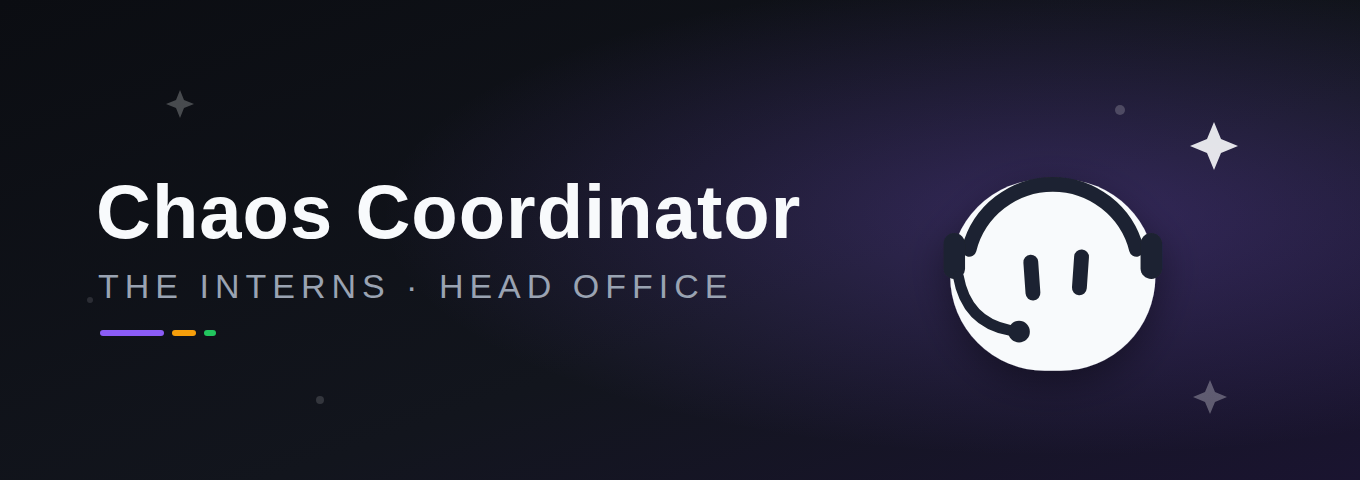
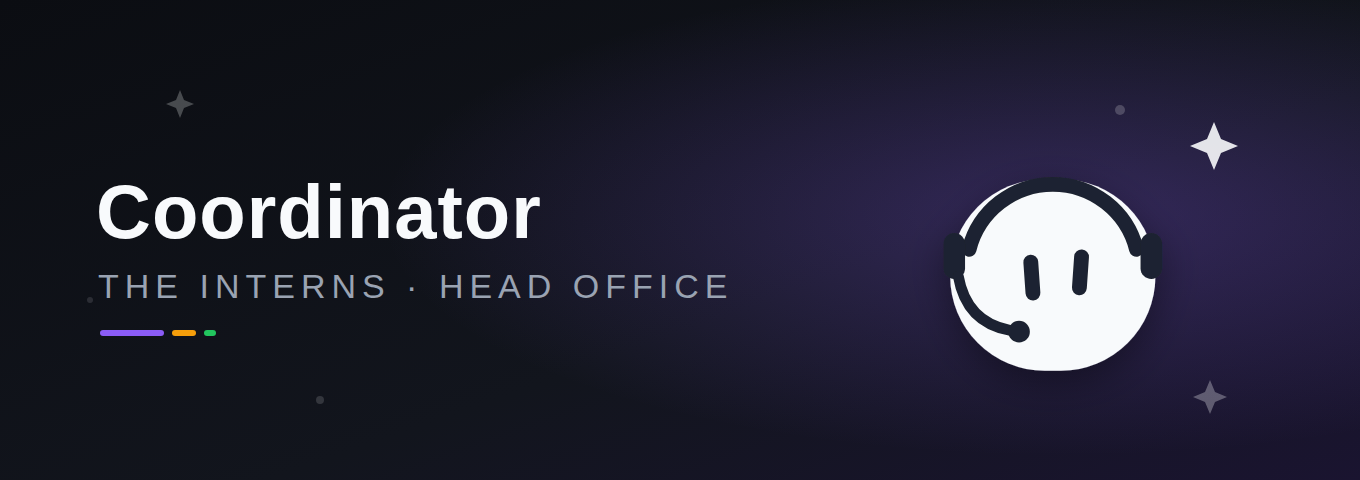
The front desk is "Coordinator", and its name is a setting
coordinator_name in config (default "Coordinator") names the front desk in
prompts, chats, standups, notifications and the app (via GET /owner).

Changed region(s): [[0.0926, 0.375, 0.5868, 0.5]]

diff --git a/orchestrator/src/orchestrator.ts b/orchestrator/src/orchestrator.ts
@@ -12,7 +12,7 @@ import { randomUUID } from "node:crypto";
 import { adviseIdlePriority, type AdvisorVerdict } from "./advisor.js";
 import { localDate } from "./agenda.js";
 import { cronMatches } from "./schedules.js";
-import { ownerName } from "./profile.js";
+import { coordinatorName, ownerName } from "./profile.js";
 import { quickRepliesFence } from "./fences.js";
 import type { Config } from "./config.js";
 import { OVER_BUDGET, type Db } from "./db.js";
@@ -412,7 +412,7 @@ export class Orchestrator {
 
   private displayName(slug: string): string {
     if (slug === "jp") return ownerName();
-    if (slug === "coordinator") return "Chaos Coordinator";
+    if (slug === "coordinator") return coordinatorName();
     return this.registry.get(slug)?.name ?? slug;
   }
 
@@ -593,7 +593,7 @@ export class Orchestrator {
     return this.db
       .listMessages(thread, limit)
       .map((m) => {
-        const who = m.author === "jp" ? ownerName() : m.author === "coordinator" ? "Chaos Coordinator" : this.displayName(m.speaker ?? m.intern);
+        const who = m.author === "jp" ? ownerName() : m.author === "coordinator" ? coordinatorName() : this.displayName(m.speaker ?? m.intern);
         const files = m.attachments.length ? ` [${m.attachments.length} file${m.attachments.length === 1 ? "" : "s"} attached]` : "";
         return `[${who}]: ${m.text.replace(/\s+/g, " ").slice(0, 600)}${files}`;
       })
@@ -616,8 +616,8 @@ export class Orchestrator {
           const from = String(task.payload.from ?? "jp");
           return [
             from === "jp"
-              ? `${ownerName()} wrote in the front desk (the Chaos Coordinator's chat), and it was routed to you (${this.displayName(task.intern)}). Answer ${ownerName()} there directly.`
-              : `You (${this.displayName(task.intern)}) are in the front desk (the Chaos Coordinator's chat with ${ownerName()}); ${this.displayName(from)} mentioned you there.`,
+              ? `${ownerName()} wrote in the front desk (the ${coordinatorName()}'s chat), and it was routed to you (${this.displayName(task.intern)}). Answer ${ownerName()} there directly.`
+              : `You (${this.displayName(task.intern)}) are in the front desk (the ${coordinatorName()}'s chat with ${ownerName()}); ${this.displayName(from)} mentioned you there.`,
             `Recent conversation:`,
             this.transcript(thread),
             ``,
@@ -725,7 +725,7 @@ export class Orchestrator {
           const result = await runSuggestions({ db: this.db, registry: this.registry, home: this.suggestHome, proposeFn: this.proposeFn });
           if (this.push && result.cards.length) {
             await this.push.notify({
-              title: "Chaos Coordinator has a suggestion",
+              title: `${coordinatorName()} has a suggestion`,
               body: result.cards.map((c) => c.title).join(" · "),
               url: "/inbox",
               tag: "suggestions",

diff --git a/app/app/(tabs)/index.tsx b/app/app/(tabs)/index.tsx
@@ -1,6 +1,6 @@
 /**
  * Crew — the chat list. One row per intern with its animated face, role,
- * last-message preview and unread dot. The Chaos Coordinator is pinned on
+ * last-message preview and unread dot. The Coordinator is pinned on
  * top: its chat is the front desk — ask anything and it routes the question
  * to the right intern, and "idea: …" lands on the Ideas page.
  */
@@ -36,6 +36,7 @@ import { Button } from "../../src/ui/Button";
 import { EmptyState, ErrorNote, Loading, Screen, ScreenTitle } from "../../src/ui/Screen";
 import { Text } from "../../src/ui/Text";
 import { TypingAvatar, TypingDots } from "../../src/ui/ThinkingIndicator";
+import { useCoordinatorName } from "../../src/owner";
 
 interface Row {
   slug: string;
@@ -80,6 +81,7 @@ export default function CrewScreen() {
   const refreshSignal = useRefreshSignal();
   const focused = useIsFocused();
   const router = useRouter();
+  const coordinatorName = useCoordinatorName();
 
   // First run: no token yet, or a fresh orchestrator with nobody hired.
   // An older orchestrator without /owner just keeps the Crew tab. Only when
@@ -247,7 +249,7 @@ export default function CrewScreen() {
     const deskSpeaker = desk?.author === "jp" ? "You: " : desk?.author === "intern" && desk.speaker ? `${interns.find((i) => i.slug === desk.speaker)?.name ?? desk.speaker}: ` : "";
     const coordinator: Row = {
       slug: "coordinator",
-      name: "Chaos Coordinator",
+      name: coordinatorName,
       role: "Front desk",
       faceId: "coordinator",
       preview: desk
@@ -340,14 +342,14 @@ export default function CrewScreen() {
         detail: intern.activity?.label ?? intern.role,
         intern,
       }));
-    if (has("Chaos Coordinator", "Orchestrator", "Front desk", "coordinator")) {
+    if (has(coordinatorName, "Orchestrator", "Front desk", "coordinator")) {
       crewResults.unshift({
         key: "intern-coordinator",
         type: "intern",
-        title: "Chaos Coordinator",
+        title: coordinatorName,
         detail: "Front desk",
         intern: {
-          slug: "coordinator", name: "Chaos Coordinator", role: "Orchestrator", icon: "coordinator",
+          slug: "coordinator", name: coordinatorName, role: "Orchestrator", icon: "coordinator",
           session_id: null, queued: 0, running: 0, paused: 0, activity: null, spend_today: 0, cost_today_usd: 0,
         },
       });

diff --git a/app/app/chat/[slug].tsx b/app/app/chat/[slug].tsx
@@ -43,6 +43,7 @@ import { QuickReplyChips, suggestQuickReplies } from "../../src/ui/QuickReplies"
 import { EmptyState, ErrorNote, Loading, Screen } from "../../src/ui/Screen";
 import { Text } from "../../src/ui/Text";
 import { ThinkingIndicator } from "../../src/ui/ThinkingIndicator";
+import { useCoordinatorName } from "../../src/owner";
 
 interface Pending {
   message: Message;
@@ -76,6 +77,7 @@ export default function ChatScreen() {
   /** pages pinned in this thread, shown beside pinned messages */
   const [pinnedPages, setPinnedPages] = useState<PageHeader[]>([]);
   const crew = useCrew();
+  const coordinatorName = useCoordinatorName();
   const [messages, setMessages] = useState<Message[]>([]);
   const [cards, setCards] = useState<Card[]>([]);
   const [pending, setPending] = useState<Pending[]>([]);
@@ -316,13 +318,13 @@ export default function ChatScreen() {
 
   const faceId = useMemo(() => (frontDesk ? "coordinator" : resolveFaceId(intern?.icon, slug ?? "")), [frontDesk, intern?.icon, slug]);
   const memberFaces = useMemo(() => (room?.members ?? []).map((m) => crew.bySlug[m]?.faceId ?? resolveFaceId(undefined, m)), [room?.members, crew.bySlug]);
-  const threadName = isRoom ? room?.name ?? "Group" : frontDesk ? "Chaos Coordinator" : intern?.name ?? slug;
+  const threadName = isRoom ? room?.name ?? "Group" : frontDesk ? coordinatorName : intern?.name ?? slug;
   /** Faces/names per speaker for group chats and handoffs. */
   const speakerOf = useCallback(
     (message: Message) => {
       const who = message.author === "coordinator" ? "coordinator" : message.speaker ?? message.intern;
       if (message.author === "jp") return null;
-      if (who === "coordinator") return { faceId: "coordinator", name: "Chaos Coordinator", slug: "coordinator" };
+      if (who === "coordinator") return { faceId: "coordinator", name: coordinatorName, slug: "coordinator" };
       const member = crew.bySlug[who];
       return { faceId: member?.faceId ?? resolveFaceId(undefined, who), name: member?.name ?? who, slug: who };
     },

diff --git a/orchestrator/src/api.ts b/orchestrator/src/api.ts
@@ -25,7 +25,7 @@ import {
 } from "./attachments.js";
 import type { CapabilityService } from "./capabilities.js";
 import { calendarMailbox, internsHome, repoRoot, saveConfig, timeZone, type Config } from "./config.js";
-import { setProfile } from "./profile.js";
+import { coordinatorName, setProfile } from "./profile.js";
 import { listTemplates, templateReady } from "./templates.js";
 import type { Db } from "./db.js";
 import type { DiscordAdapter } from "./discord.js";
@@ -1006,7 +1006,7 @@ export async function startApi(deps: {
   app.get<{ Querystring: { days?: string } }>("/reports/spend", async (req) => {
     const days = Number(req.query.days ?? 30);
     const report = db.spendReport(Number.isFinite(days) ? days : 30);
-    const names: Record<string, string> = { coordinator: "Chaos Coordinator" };
+    const names: Record<string, string> = { coordinator: coordinatorName() };
     for (const row of db.listInterns(true)) names[row.slug] = row.name;
     for (const room of db.listRooms(true)) names[room.id] = room.name;
     return { ...report, names };
@@ -1025,6 +1025,7 @@ export async function startApi(deps: {
     const hired = registry.list().filter(({ slug }) => slug !== "forge").length;
     return {
       owner_name: config.owner_name,
+      coordinator_name: config.coordinator_name,
       timezone: timeZone(config),
       timezone_configured: Boolean(config.timezone),
       own_domains: config.own_domains,
@@ -1052,6 +1053,7 @@ export async function startApi(deps: {
     const body = z
       .object({
         owner_name: z.string().trim().min(1).max(40).optional(),
+        coordinator_name: z.string().trim().min(1).max(40).optional(),
         timezone: z.string().refine((zone) => zone === "" || zoneOk(zone), "unknown time zone").optional(),
         own_domains: z.array(z.string().trim().toLowerCase().regex(/^[a-z0-9.-]+\.[a-z]{2,}$/)).max(10).optional(),
         setup_complete: z.literal(true).optional(),

diff --git a/app/app/(tabs)/today.tsx b/app/app/(tabs)/today.tsx
@@ -24,6 +24,7 @@ import { InternFace, resolveFaceId } from "../../src/ui/InternFace";
 import { Markdown } from "../../src/ui/Markdown";
 import { EmptyState, ErrorNote, Loading, Screen } from "../../src/ui/Screen";
 import { Text } from "../../src/ui/Text";
+import { useCoordinatorName } from "../../src/owner";
 
 const OPENED_KEY = "interns.todayOpened.v1";
 /** Dates and times on Today are this device's local ones. */
@@ -38,6 +39,7 @@ export default function TodayScreen() {
   const { colors } = useAppTheme();
   const { api, ready, configured } = useSettings();
   const crew = useCrew();
+  const coordinatorName = useCoordinatorName();
   const params = useLocalSearchParams<{ card?: string }>();
   // The tab stays mounted overnight, so "today" is kept current (a minute
   // tick, and every focus) and the shown day is an offset from it.
@@ -119,7 +121,7 @@ export default function TodayScreen() {
     [api],
   );
 
-  const nameOf = useCallback((slug: string) => (slug === "coordinator" ? "Chaos Coordinator" : (crew.bySlug[slug]?.name ?? slug)), [crew.bySlug]);
+  const nameOf = useCallback((slug: string) => (slug === "coordinator" ? coordinatorName : (crew.bySlug[slug]?.name ?? slug)), [coordinatorName, crew.bySlug]);
   const faceOf = useCallback((slug: string) => (slug === "coordinator" ? "coordinator" : (crew.bySlug[slug]?.faceId ?? resolveFaceId(undefined, slug))), [crew.bySlug]);
 
   const needsYou = useMemo(() => {

diff --git a/orchestrator/src/push.ts b/orchestrator/src/push.ts
@@ -19,6 +19,7 @@ import type { Db, PushLogEntry } from "./db.js";
 import type { EventBus } from "./events.js";
 import type { Registry } from "./registry.js";
 import type { Card, Message } from "./types.js";
+import { coordinatorName } from "./profile.js";
 
 export interface PushSubscriptionJSON {
   endpoint: string;
@@ -160,9 +161,9 @@ export function wirePushNotifications(bus: EventBus, registry: Registry, push: P
   // A quiet_hours standing order holds an intern's lock-screen pings (the message/card still lands in the app).
   const internQuiet = (slug: string): boolean => (slug !== "coordinator" && !slug.startsWith("room-") ? quietNow(db, slug) : false);
   const internName = (slug: string): string =>
-    slug === "coordinator" ? "Chaos Coordinator" : (registry.get(slug)?.name ?? slug);
+    slug === "coordinator" ? coordinatorName() : (registry.get(slug)?.name ?? slug);
   const messageTitle = (msg: Message): string => {
-    const who = msg.author === "coordinator" ? "Chaos Coordinator" : internName(msg.speaker ?? msg.intern);
+    const who = msg.author === "coordinator" ? coordinatorName() : internName(msg.speaker ?? msg.intern);
     if (msg.intern.startsWith("room-")) return `${who} · ${db.getRoom(msg.intern)?.name ?? "group"}`;
     return msg.speaker && msg.speaker !== msg.intern ? `${who} · in ${internName(msg.intern)}'s thread` : who;
   };

diff --git a/orchestrator/src/standup.ts b/orchestrator/src/standup.ts
@@ -1,5 +1,5 @@
 /**
- * !standup — the Chaos Coordinator's morning digest.
+ * !standup — the Coordinator's morning digest.
  *
  * Deterministic collection (db), one cheap no-tools LLM call for the summary —
  * same query() pattern as hire.ts. Falls back to the raw facts if the model
@@ -8,7 +8,7 @@
 import { plainFences } from "./fences.js";
 import { query } from "@anthropic-ai/claude-agent-sdk";
 import type { Db } from "./db.js";
-import { ownerName } from "./profile.js";
+import { coordinatorName, ownerName } from "./profile.js";
 
 const SPEND_DAYS = 7;
 
@@ -114,7 +114,7 @@ export async function standup(db: Db, opts: { easterEggs?: boolean; now?: Date }
     let text = "";
     for await (const message of query({
       prompt:
-        `You are the Chaos Coordinator giving ${ownerName()} the morning standup for their AI intern crew. ` +
+        `You are the ${coordinatorName()} giving ${ownerName()} the morning standup for their AI intern crew. ` +
         `Below are the raw facts from the last 24 hours. Write a tight digest (max ~10 lines, Discord ` +
         `markdown): one bullet per intern with what they actually did or found (from their recent ` +
         `reports), then anything waiting on ${ownerName()} (open cards). Dry, factual, zero fluff. If an intern ` +

diff --git a/orchestrator/src/suggest.ts b/orchestrator/src/suggest.ts
@@ -26,7 +26,7 @@ import type { EventBus } from "./events.js";
 import { extractMentionTokens } from "./mentions.js";
 import type { Registry } from "./registry.js";
 import type { Card, CapabilityRequirement } from "./types.js";
-import { ownerName } from "./profile.js";
+import { coordinatorName, ownerName } from "./profile.js";
 
 const SUGGEST_MODEL = "claude-haiku-4-5";
 const WINDOW_DAYS = 14;
@@ -238,7 +238,7 @@ export function collectEvidence(db: Db, registry: Registry, days = WINDOW_DAYS):
 // ------------------------------------------------------------------- propose
 
 const systemPrompt = (owner = ownerName()) =>
-  "You are the Chaos Coordinator, who runs " + owner + "'s crew of AI interns. Once a week you look at what actually " +
+  "You are the " + coordinatorName() + ", who runs " + owner + "'s crew of AI interns. Once a week you look at what actually " +
   "happened and, only if the evidence is strong, propose at most two concrete improvements. Kinds: " +
   '"hire" (a new intern for a recurring need ' + owner + ' keeps handling by hand or keeps asking the wrong intern for), ' +
   '"capability" (an intern repeatedly lacked a tool/integration — name the intern and the capability), ' +

diff --git a/app/src/ui/pages/PageViews.tsx b/app/src/ui/pages/PageViews.tsx
@@ -17,6 +17,7 @@ import { relativeTime } from "../../time";
 import { CheckIcon, ChevronDownIcon, ExternalIcon, SearchIcon, SendIcon } from "../Icons";
 import { InternFace, resolveFaceId } from "../InternFace";
 import { Text } from "../Text";
+import { useCoordinatorName } from "../../owner";
 
 /** Send JP's request about a page (or one of its items) to the page's owner. */
 export type AskOwner = (instruction: string, item?: { id: string; label: string }) => Promise<void>;
@@ -774,8 +775,9 @@ export function DraftView({ page, ask }: { page: Page; ask: AskOwner }) {
 /** Owner line for the page header: face + name. */
 export function OwnerLine({ slug }: { slug: string }) {
   const crew = useCrew();
+  const coordinatorName = useCoordinatorName();
   const member = crew.bySlug[slug];
-  const name = slug === "coordinator" ? "Chaos Coordinator" : (member?.name ?? slug);
+  const name = slug === "coordinator" ? coordinatorName : (member?.name ?? slug);
   return (
     <View style={styles.owner}>
       <InternFace id={slug === "coordinator" ? "coordinator" : (member?.faceId ?? resolveFaceId(undefined, slug))} size={20} clipToBounds />

diff --git a/orchestrator/src/agenda.ts b/orchestrator/src/agenda.ts
@@ -11,7 +11,7 @@ import * as path from "node:path";
 import { fileURLToPath } from "node:url";
 import { promisify } from "node:util";
 import type { Db } from "./db.js";
-import { localZone } from "./profile.js";
+import { coordinatorName, localZone } from "./profile.js";
 import { parseNextOutput, type CalAttendee, type CalEvent } from "./meetingwatch.js";
 import type { Registry } from "./registry.js";
 import type { Card, Message, Task } from "./types.js";
@@ -173,7 +173,7 @@ export function awaySummaries(tasks: Task[], nameOf: (slug: string) => string): 
 export async function buildAgenda(deps: AgendaDeps, date: string, since: string | null): Promise<AgendaResponse> {
   const { db, registry } = deps;
   const now = deps.now?.() ?? new Date();
-  const nameOf = (slug: string) => (slug === "coordinator" ? "Chaos Coordinator" : (registry.get(slug)?.name ?? slug));
+  const nameOf = (slug: string) => (slug === "coordinator" ? coordinatorName() : (registry.get(slug)?.name ?? slug));
 
   const open = db.listCards("open");
   const needs_you = open.filter(isDecision);

diff --git a/orchestrator/src/discord.ts b/orchestrator/src/discord.ts
@@ -48,6 +48,7 @@ import type { Registry } from "./registry.js";
 import type { EventBus } from "./events.js";
 import type { Attachment, CapabilityRequirement, Card, CardAction, InternManifest, Message } from "./types.js";
 import { ICONS, AVATAR_PNG_DIR } from "./icons.js";
+import { coordinatorName } from "./profile.js";
 
 interface PendingHire {
   draft: InternManifest;
@@ -405,7 +406,7 @@ export class DiscordAdapter {
       // Group chats have no channel of their own: mirror them into #office.
       if (!seen && msg.text.trim()) {
         const room = this.db.getRoom(msg.intern);
-        const who = msg.author === "coordinator" ? "Chaos Coordinator" : (this.db.getIntern(msg.speaker ?? "")?.name ?? msg.speaker ?? msg.intern);
+        const who = msg.author === "coordinator" ? coordinatorName() : (this.db.getIntern(msg.speaker ?? "")?.name ?? msg.speaker ?? msg.intern);
         await this.postToOffice(`**${who}** in _${room?.name ?? "group"}_:\n${stripRichBlocks(msg.text)}`);
       }
       return;

diff --git a/orchestrator/src/profile.ts b/orchestrator/src/profile.ts
@@ -7,16 +7,23 @@ import type { Config } from "./config.js";
 import { timeZone } from "./config.js";
 
 let owner = "Boss";
+let coordinator = "Coordinator";
 let zone = timeZone({ timezone: "" });
 
-export function setProfile(config: Pick<Config, "owner_name" | "timezone">): void {
+export function setProfile(config: Pick<Config, "owner_name" | "timezone"> & Partial<Pick<Config, "coordinator_name">>): void {
   owner = config.owner_name.trim() || "Boss";
+  coordinator = config.coordinator_name?.trim() || "Coordinator";
   zone = timeZone(config);
 }
 
 /** What the interns call the person they work for ("JP", "Sam", "Boss"). */
 export function ownerName(): string {
   return owner;
+}
+
+/** The front desk's name ("Coordinator" unless configured). */
+export function coordinatorName(): string {
+  return coordinator;
 }
 
 /** IANA time zone the owner lives in (Today, agendas, local dates). */
